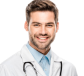
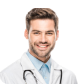
#

diff --git a/index.html b/index.html
@@ -82,7 +82,7 @@
             </div>
             <img src="/img/Rectangle.png" alt="restangle">
             <div class="search-selector flex_2">
-                <input type="text" value="Поиск...">
+                <input type="text" placeholder="Поиск...">
                 <div class="search-btn">
                     <img src="/img/search_24px.png" alt="search">
                 </div>
@@ -166,7 +166,7 @@
             <div class="doctor-item">
                 <div class="doctor-img">
                     <div class="doctor-background">
-                        <img src="/img/doctor_3.png" alt="this-doctor" style="margin-top: 7px;">
+                        <img src="/img/doctor_3.png" alt="this-doctor" ">
                     </div>
                 </div>
                 <div class="doctor-name">
@@ -281,8 +281,8 @@
 
             <div class="doctor-item">
                 <div class="doctor-img">
-                    <div class="doctor-background">
-                        <img src="/img/doctor_7_8.png" alt="this-doctor">
+                    <div class="doctor-background" style="align-items: center;">
+                        <img src="/img/doctor_7_8.png" alt="this-doctor" style="margin-top:25%">
                     </div>
                 </div>
                 <div class="doctor-name">
@@ -311,7 +311,7 @@
             <div class="doctor-item">
                 <div class="doctor-img">
                     <div class="doctor-background">
-                        <img src="/img/doctor_7_8.png" alt="this-doctor">
+                        <img src="/img/doctor_7_8.png" alt="this-doctor" style="margin-top:25%">
                     </div>
                 </div>
                 <div class="doctor-name">

diff --git a/css/style.css b/css/style.css
@@ -65,8 +65,7 @@ body {
 }
 
 .map {
-    min-width: 100%;
-    min-height: 100%;
+width: 100%;
 }
 
 .border-search {
@@ -161,6 +160,11 @@ body {
     width: 84px;
     height: 84px;
     margin-top: -35px;
+}
+
+.doctor-background> img{
+    border-radius: 8px;
+    
 }
 
 .doctor-location {
